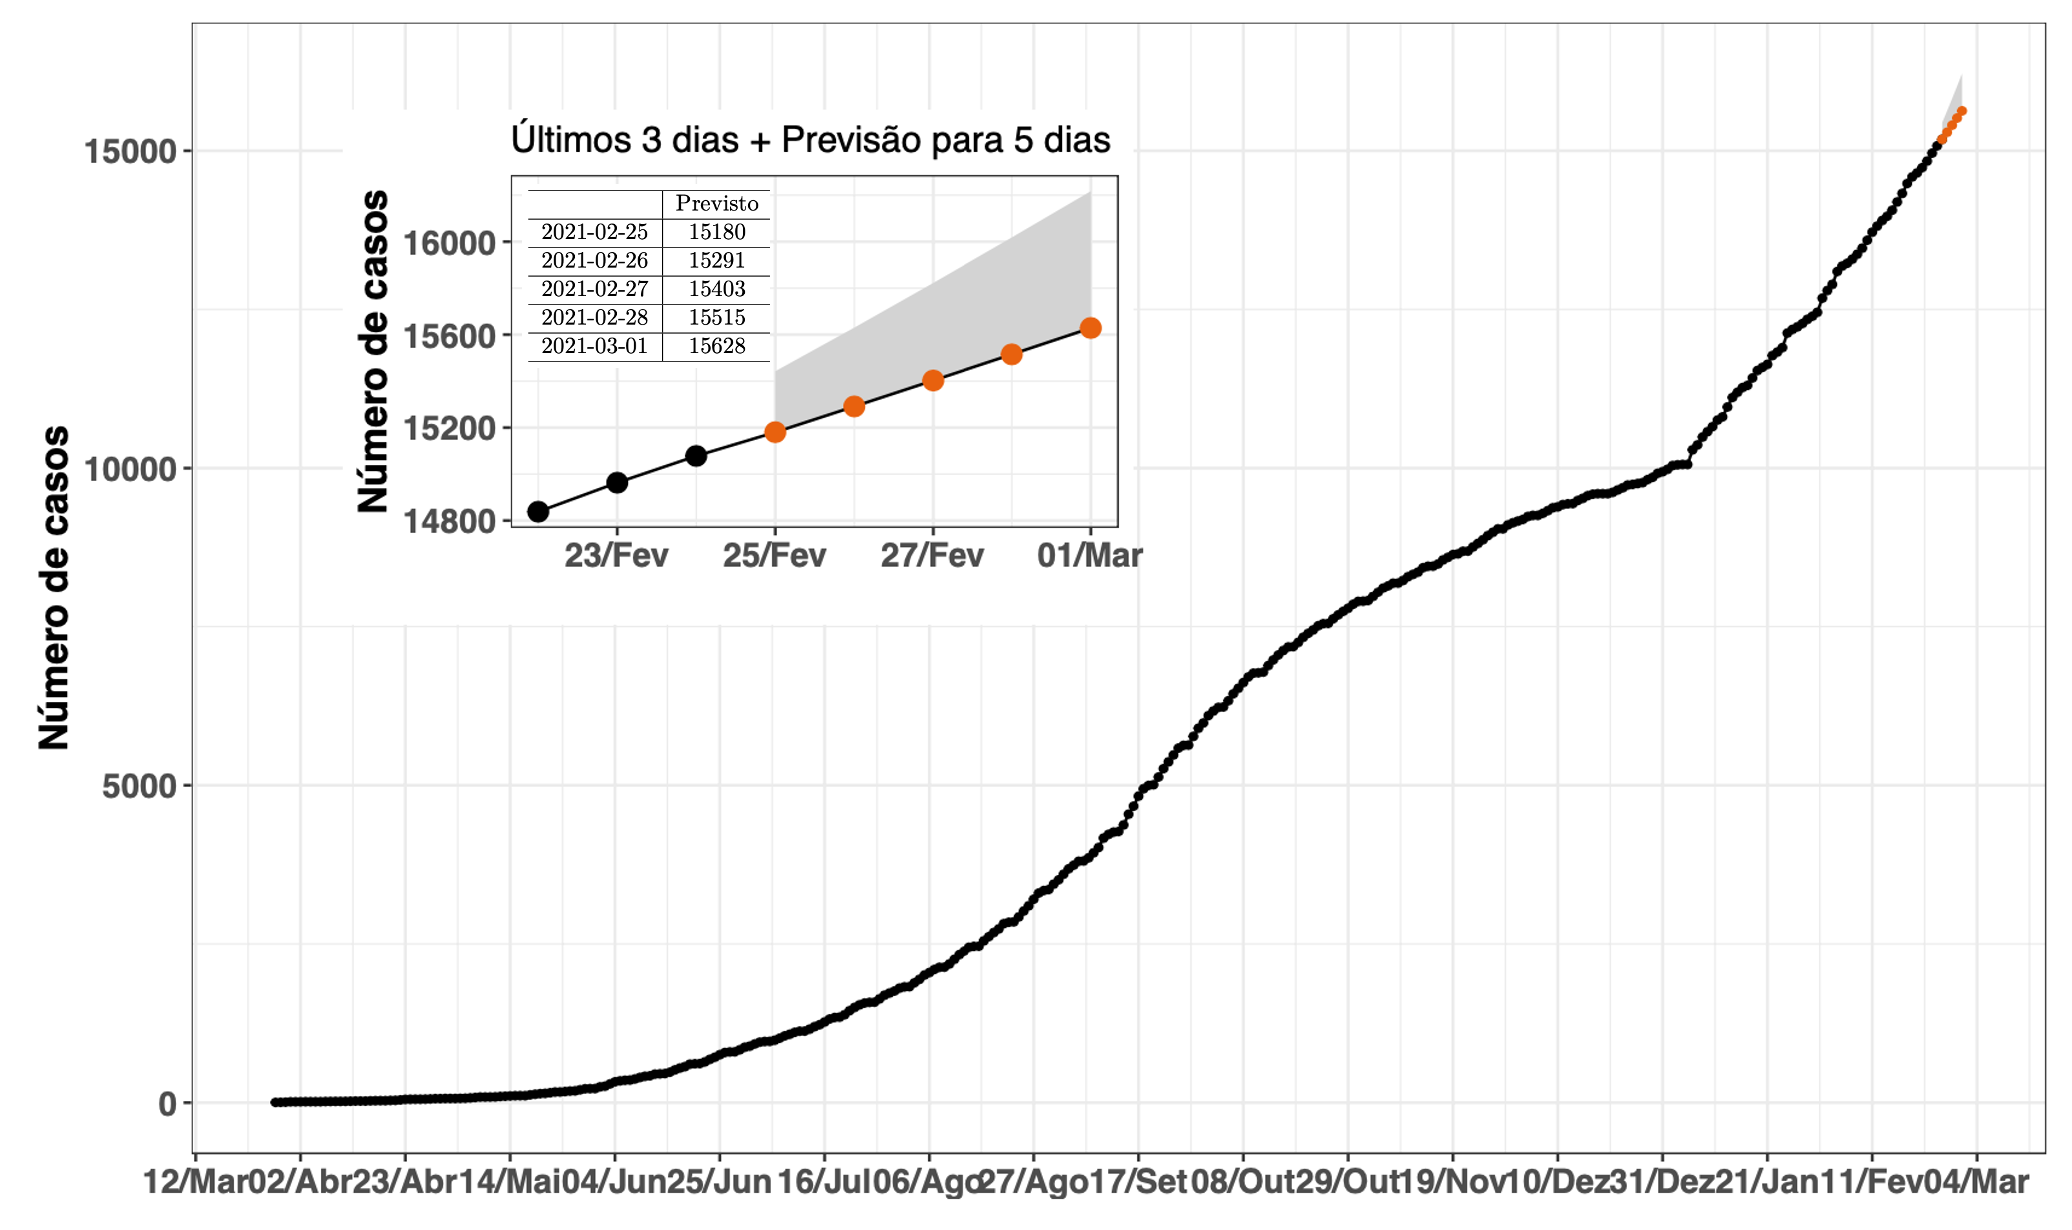
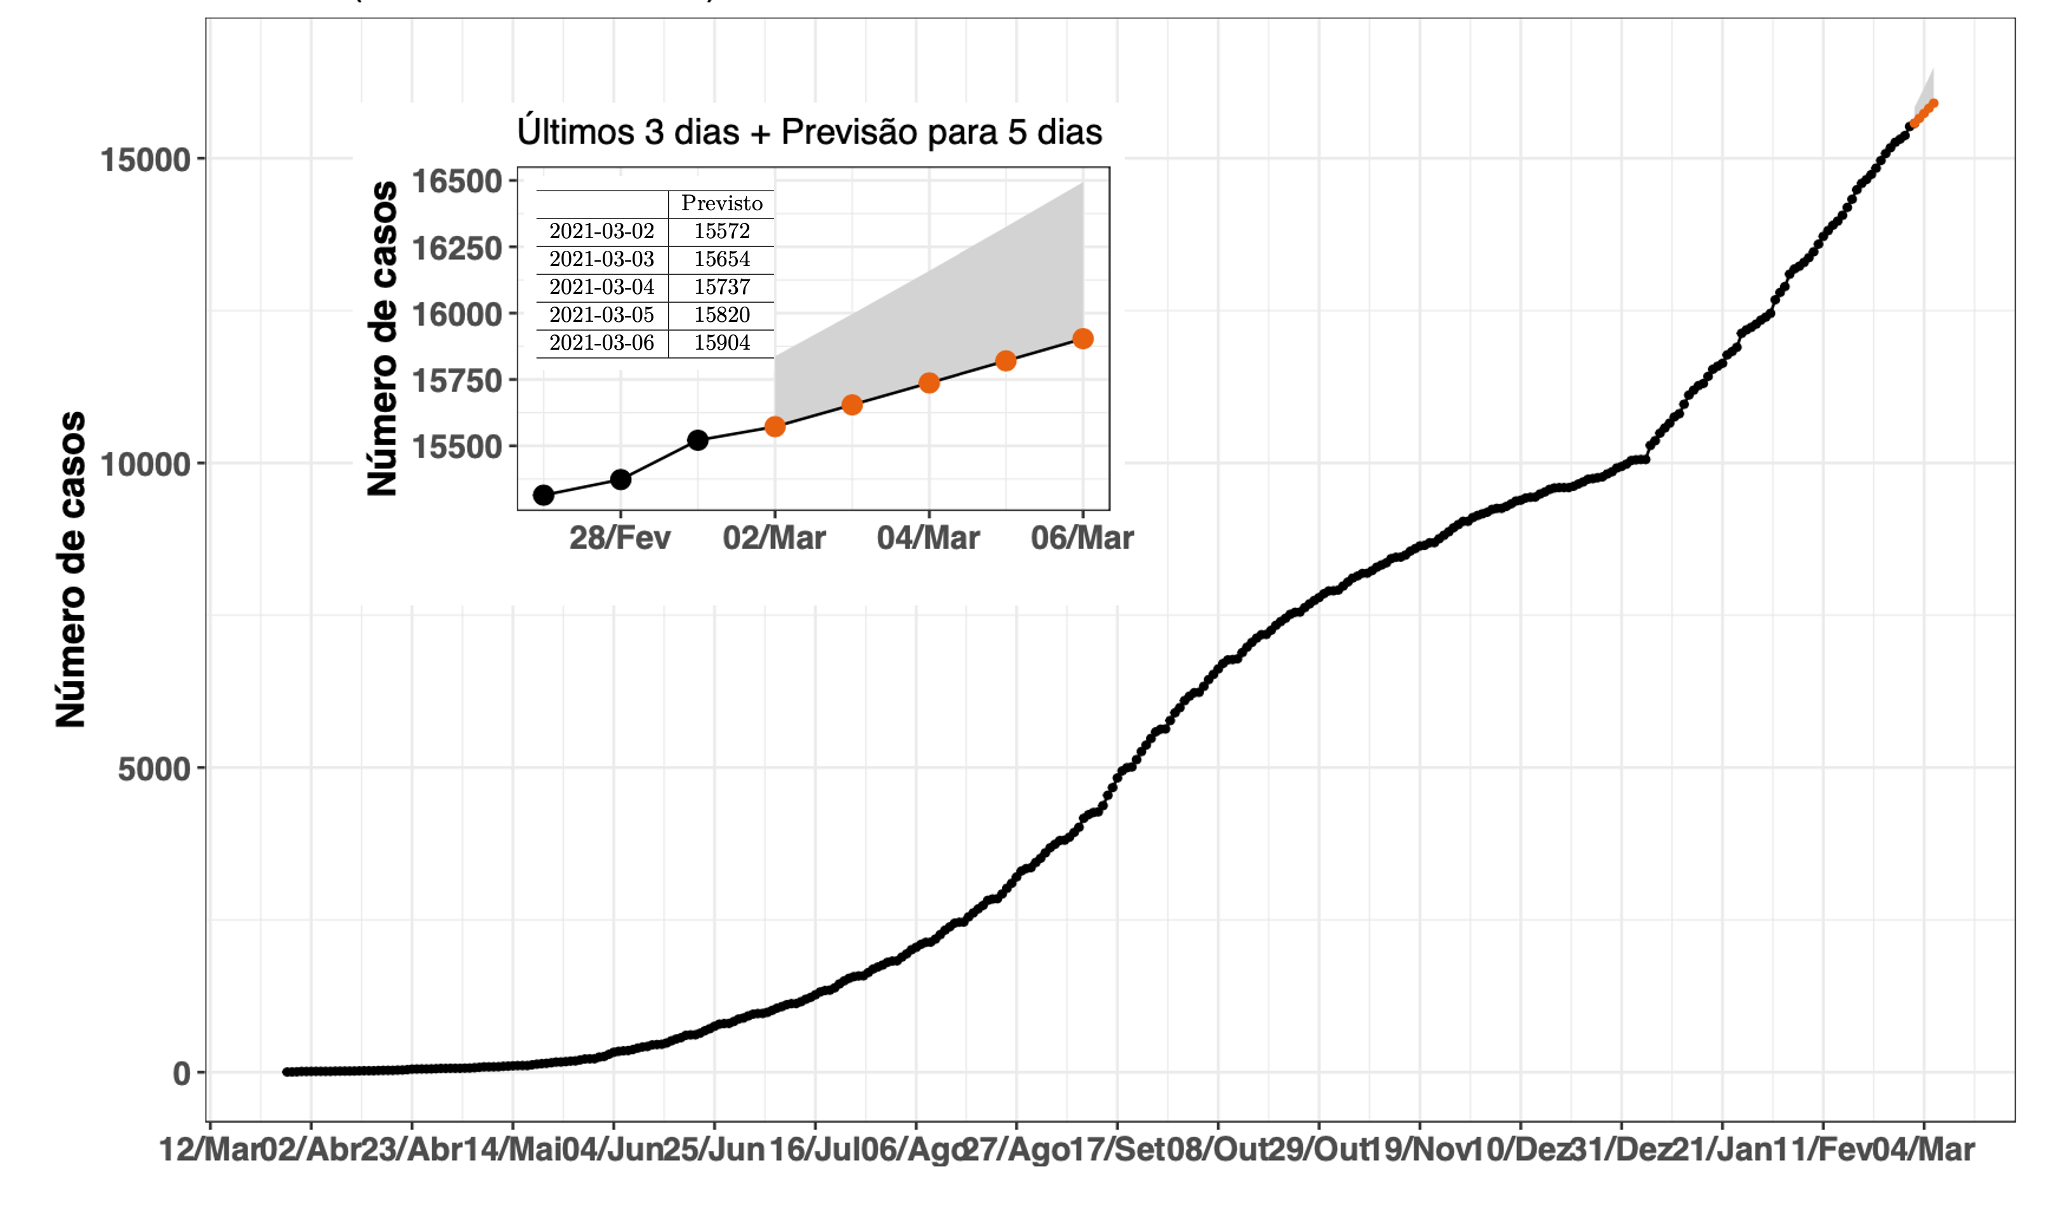
atualizacao

diff --git a/index.html b/index.html
@@ -135,7 +135,7 @@
               <!-- CARD.TITLE.TEXT -->
               <h2 class="display">Casos de Uberaba</h2>
             <!--/a-->
-            <p class="card-text">Dados e projeções para o município de Uberaba, informações até o dia 18 de fevereiro 2021. Informações coletadas com a própria Secretaria Municipal de Saúde de Uberaba e pelo monitoramento diário</p>
+            <p class="card-text">Dados e projeções para o município de Uberaba, informações até o dia 01 de março 2021. Informações coletadas com a própria Secretaria Municipal de Saúde de Uberaba e pelo monitoramento diário</p>
             <!-- CARD.TITLE.DESCRIPTION -->
           </div>
         </div>
@@ -147,8 +147,8 @@
 
         <p class="text-justify mt-3">
             <ul>
-            <li>No dia de hoje (24/02/2021), acumulamos 15078 casos notificados.</li>
-            <li>Projeção para dia 01 de março é de 15628 podendo chegar até 16217 casos notificados, como indicado pela faixa cinza.</li>
+            <li>No dia de hoje (01/03/2021), acumulamos 15521 casos notificados.</li>
+            <li>Projeção para dia 06 de março é de 15904 podendo chegar até 16497 casos notificados, como indicado pela faixa cinza.</li>
             <li>Pontos pretos: número de casos confirmados a cada dia.</li>
             <li>Pontos laranjas: a previsão para os próximos 5 dias.</li>
             </ul>
@@ -271,7 +271,7 @@
         </p>
 -->
         <p class="text-justify mt-3">
-        O gráfico da Figura 6 apresenta a evolução do número de óbitos com a média móvel e também a variação dessa média. A variação da média móvel do número de óbitos é de 11%.
+        O gráfico da Figura 6 apresenta a evolução do número de óbitos com a média móvel e também a variação dessa média. A variação da média móvel do número de óbitos é de 12%.
         </p>
 
         <a target="_blank">
@@ -300,6 +300,17 @@
         </a>
 
         <p class="text-center mt-3"> <b>Figura 8:</b> Ocupação dos leitos de UTI por COVID-19 em Uberaba</p>
+
+        <p class="text-justify mt-3">
+        O gráfico da Figura 9 apresenta a ocupação dos leitos de UTI e Enfermaria na cidade de Uberaba.
+        </p>
+
+        <a target="_blank">
+          <img src="./web/municipios/MG/Uberaba/leitosenf.png" class="img-fluid" style="max-height:600px;" alt="Gŕafico mostrando os indicadores da cidade de Uberaba.">
+        </a>
+
+        <p class="text-center mt-3"> <b>Figura 9:</b> Ocupação dos leitos de UTI e Enfermaria por COVID-19 em Uberaba</p>
+
         <!-- Número reprodutivo -->
 <!--        <div class="media-body">
             <h3 class="card-title">Quantas pessoas um infectado contamina na cidade de Uberaba?</h3>
